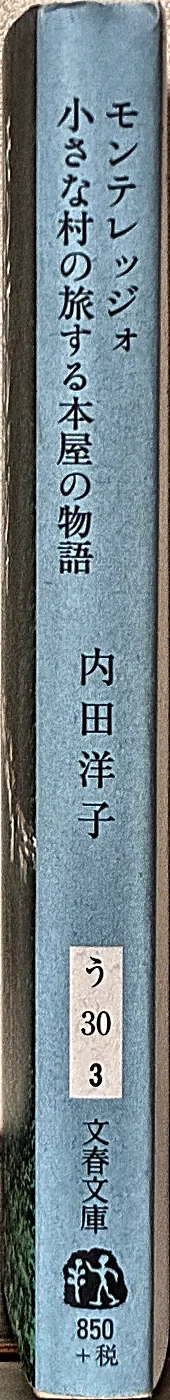
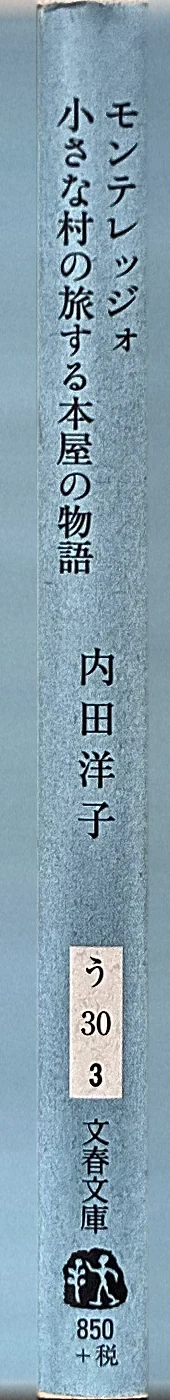
本の大きさを以前の大きさに戻す（1段およそ20冊）／モンテレッジオの背の黒い帯を消す
依頼主のご指示。見比べていただくため、この版を本番の確認先に出す
（12冊の版は、確認用のブランチにそのまま残す）。

・本の大きさを 1.0px/mm に戻す。390px 幅のスマートフォンで1段およそ20冊。
  実物どおりの比のまま。パソコン・タブレットも同じ厚み・高さ
・棚の仕切りなし、1つめの売り場は2段・2つめは1段、はそのまま
・広い画面でも段が埋まるよう、1段ぶんの冊数を増やす
・モンテレッジオの背表紙の画像の左端にあった黒い帯（撮影時の本の縁と
  背景）を、背の水色で埋める。右端の灰色の縁も同じく。
  写真は引き伸ばさず、背の水色が端まで続くようにする
・検査を合わせる（803件）

diff --git a/index.html b/index.html
@@ -148,6 +148,44 @@
         <li class="spine" style="--h:297;--kw:210;--t:11;--c:#A9CDDC;--e:#F1EBDE;--lean:0.0deg" data-book="suika" tabindex="0" role="button" aria-label="すいかのプール"><img src="assets/images/spine-suika-no-pool.webp" alt="" loading="lazy" decoding="async" draggable="false"></li>
         <li class="spine" style="--h:210;--kw:148;--t:16;--c:#6F2027;--e:#ECE3D2;--lean:0.0deg" data-book="aya" tabindex="0" role="button" aria-label="アーヤと魔女"><img src="assets/images/spine-aya-to-majo.webp" alt="" loading="lazy" decoding="async" draggable="false"></li>
         <li class="spine" style="--h:210;--kw:148;--t:25;--c:#F0EEE9;--e:#F4F1E9;--lean:0.0deg" data-book="kagaku" tabindex="0" role="button" aria-label="よみとく10分 かがくのお話25"><img src="assets/images/spine-kagaku-no-ohanashi-25.webp" alt="" loading="lazy" decoding="async" draggable="false"></li>
+        <li class="spine" style="--h:148;--kw:105;--t:19;--c:#A9CDDB;--e:#E7DCC4;--lean:0.0deg" data-book="monte" tabindex="0" role="button" aria-label="モンテレッジオ 小さな村の旅する本屋の物語"><img src="assets/images/spine-monteleggio.webp" alt="" loading="lazy" decoding="async" draggable="false"></li>
+        <li class="spine" style="--h:297;--kw:210;--t:11;--c:#A9CDDC;--e:#F1EBDE;--lean:0.0deg" data-book="suika" tabindex="0" role="button" aria-label="すいかのプール"><img src="assets/images/spine-suika-no-pool.webp" alt="" loading="lazy" decoding="async" draggable="false"></li>
+        <li class="spine" style="--h:210;--kw:148;--t:16;--c:#6F2027;--e:#ECE3D2;--lean:0.0deg" data-book="aya" tabindex="0" role="button" aria-label="アーヤと魔女"><img src="assets/images/spine-aya-to-majo.webp" alt="" loading="lazy" decoding="async" draggable="false"></li>
+        <li class="spine" style="--h:210;--kw:148;--t:25;--c:#F0EEE9;--e:#F4F1E9;--lean:0.0deg" data-book="kagaku" tabindex="0" role="button" aria-label="よみとく10分 かがくのお話25"><img src="assets/images/spine-kagaku-no-ohanashi-25.webp" alt="" loading="lazy" decoding="async" draggable="false"></li>
+        <li class="spine" style="--h:148;--kw:105;--t:19;--c:#A9CDDB;--e:#E7DCC4;--lean:0.0deg" data-book="monte" tabindex="0" role="button" aria-label="モンテレッジオ 小さな村の旅する本屋の物語"><img src="assets/images/spine-monteleggio.webp" alt="" loading="lazy" decoding="async" draggable="false"></li>
+        <li class="spine" style="--h:297;--kw:210;--t:11;--c:#A9CDDC;--e:#F1EBDE;--lean:0.0deg" data-book="suika" tabindex="0" role="button" aria-label="すいかのプール"><img src="assets/images/spine-suika-no-pool.webp" alt="" loading="lazy" decoding="async" draggable="false"></li>
+        <li class="spine" style="--h:210;--kw:148;--t:16;--c:#6F2027;--e:#ECE3D2;--lean:0.0deg" data-book="aya" tabindex="0" role="button" aria-label="アーヤと魔女"><img src="assets/images/spine-aya-to-majo.webp" alt="" loading="lazy" decoding="async" draggable="false"></li>
+        <li class="spine" style="--h:210;--kw:148;--t:25;--c:#F0EEE9;--e:#F4F1E9;--lean:0.0deg" data-book="kagaku" tabindex="0" role="button" aria-label="よみとく10分 かがくのお話25"><img src="assets/images/spine-kagaku-no-ohanashi-25.webp" alt="" loading="lazy" decoding="async" draggable="false"></li>
+        <li class="spine" style="--h:148;--kw:105;--t:19;--c:#A9CDDB;--e:#E7DCC4;--lean:0.0deg" data-book="monte" tabindex="0" role="button" aria-label="モンテレッジオ 小さな村の旅する本屋の物語"><img src="assets/images/spine-monteleggio.webp" alt="" loading="lazy" decoding="async" draggable="false"></li>
+        <li class="spine" style="--h:297;--kw:210;--t:11;--c:#A9CDDC;--e:#F1EBDE;--lean:0.0deg" data-book="suika" tabindex="0" role="button" aria-label="すいかのプール"><img src="assets/images/spine-suika-no-pool.webp" alt="" loading="lazy" decoding="async" draggable="false"></li>
+        <li class="spine" style="--h:210;--kw:148;--t:16;--c:#6F2027;--e:#ECE3D2;--lean:0.0deg" data-book="aya" tabindex="0" role="button" aria-label="アーヤと魔女"><img src="assets/images/spine-aya-to-majo.webp" alt="" loading="lazy" decoding="async" draggable="false"></li>
+        <li class="spine" style="--h:210;--kw:148;--t:25;--c:#F0EEE9;--e:#F4F1E9;--lean:0.0deg" data-book="kagaku" tabindex="0" role="button" aria-label="よみとく10分 かがくのお話25"><img src="assets/images/spine-kagaku-no-ohanashi-25.webp" alt="" loading="lazy" decoding="async" draggable="false"></li>
+        <li class="spine" style="--h:148;--kw:105;--t:19;--c:#A9CDDB;--e:#E7DCC4;--lean:0.0deg" data-book="monte" tabindex="0" role="button" aria-label="モンテレッジオ 小さな村の旅する本屋の物語"><img src="assets/images/spine-monteleggio.webp" alt="" loading="lazy" decoding="async" draggable="false"></li>
+        <li class="spine" style="--h:297;--kw:210;--t:11;--c:#A9CDDC;--e:#F1EBDE;--lean:0.0deg" data-book="suika" tabindex="0" role="button" aria-label="すいかのプール"><img src="assets/images/spine-suika-no-pool.webp" alt="" loading="lazy" decoding="async" draggable="false"></li>
+        <li class="spine" style="--h:210;--kw:148;--t:16;--c:#6F2027;--e:#ECE3D2;--lean:0.0deg" data-book="aya" tabindex="0" role="button" aria-label="アーヤと魔女"><img src="assets/images/spine-aya-to-majo.webp" alt="" loading="lazy" decoding="async" draggable="false"></li>
+        <li class="spine" style="--h:210;--kw:148;--t:25;--c:#F0EEE9;--e:#F4F1E9;--lean:0.0deg" data-book="kagaku" tabindex="0" role="button" aria-label="よみとく10分 かがくのお話25"><img src="assets/images/spine-kagaku-no-ohanashi-25.webp" alt="" loading="lazy" decoding="async" draggable="false"></li>
+        <li class="spine" style="--h:148;--kw:105;--t:19;--c:#A9CDDB;--e:#E7DCC4;--lean:0.0deg" data-book="monte" tabindex="0" role="button" aria-label="モンテレッジオ 小さな村の旅する本屋の物語"><img src="assets/images/spine-monteleggio.webp" alt="" loading="lazy" decoding="async" draggable="false"></li>
+        <li class="spine" style="--h:297;--kw:210;--t:11;--c:#A9CDDC;--e:#F1EBDE;--lean:0.0deg" data-book="suika" tabindex="0" role="button" aria-label="すいかのプール"><img src="assets/images/spine-suika-no-pool.webp" alt="" loading="lazy" decoding="async" draggable="false"></li>
+        <li class="spine" style="--h:210;--kw:148;--t:16;--c:#6F2027;--e:#ECE3D2;--lean:0.0deg" data-book="aya" tabindex="0" role="button" aria-label="アーヤと魔女"><img src="assets/images/spine-aya-to-majo.webp" alt="" loading="lazy" decoding="async" draggable="false"></li>
+        <li class="spine" style="--h:210;--kw:148;--t:25;--c:#F0EEE9;--e:#F4F1E9;--lean:0.0deg" data-book="kagaku" tabindex="0" role="button" aria-label="よみとく10分 かがくのお話25"><img src="assets/images/spine-kagaku-no-ohanashi-25.webp" alt="" loading="lazy" decoding="async" draggable="false"></li>
+        <li class="spine" style="--h:148;--kw:105;--t:19;--c:#A9CDDB;--e:#E7DCC4;--lean:0.0deg" data-book="monte" tabindex="0" role="button" aria-label="モンテレッジオ 小さな村の旅する本屋の物語"><img src="assets/images/spine-monteleggio.webp" alt="" loading="lazy" decoding="async" draggable="false"></li>
+        <li class="spine" style="--h:297;--kw:210;--t:11;--c:#A9CDDC;--e:#F1EBDE;--lean:0.0deg" data-book="suika" tabindex="0" role="button" aria-label="すいかのプール"><img src="assets/images/spine-suika-no-pool.webp" alt="" loading="lazy" decoding="async" draggable="false"></li>
+        <li class="spine" style="--h:210;--kw:148;--t:16;--c:#6F2027;--e:#ECE3D2;--lean:0.0deg" data-book="aya" tabindex="0" role="button" aria-label="アーヤと魔女"><img src="assets/images/spine-aya-to-majo.webp" alt="" loading="lazy" decoding="async" draggable="false"></li>
+        <li class="spine" style="--h:210;--kw:148;--t:25;--c:#F0EEE9;--e:#F4F1E9;--lean:0.0deg" data-book="kagaku" tabindex="0" role="button" aria-label="よみとく10分 かがくのお話25"><img src="assets/images/spine-kagaku-no-ohanashi-25.webp" alt="" loading="lazy" decoding="async" draggable="false"></li>
+        <li class="spine" style="--h:148;--kw:105;--t:19;--c:#A9CDDB;--e:#E7DCC4;--lean:0.0deg" data-book="monte" tabindex="0" role="button" aria-label="モンテレッジオ 小さな村の旅する本屋の物語"><img src="assets/images/spine-monteleggio.webp" alt="" loading="lazy" decoding="async" draggable="false"></li>
+        <li class="spine" style="--h:297;--kw:210;--t:11;--c:#A9CDDC;--e:#F1EBDE;--lean:0.0deg" data-book="suika" tabindex="0" role="button" aria-label="すいかのプール"><img src="assets/images/spine-suika-no-pool.webp" alt="" loading="lazy" decoding="async" draggable="false"></li>
+        <li class="spine" style="--h:210;--kw:148;--t:16;--c:#6F2027;--e:#ECE3D2;--lean:0.0deg" data-book="aya" tabindex="0" role="button" aria-label="アーヤと魔女"><img src="assets/images/spine-aya-to-majo.webp" alt="" loading="lazy" decoding="async" draggable="false"></li>
+        <li class="spine" style="--h:210;--kw:148;--t:25;--c:#F0EEE9;--e:#F4F1E9;--lean:0.0deg" data-book="kagaku" tabindex="0" role="button" aria-label="よみとく10分 かがくのお話25"><img src="assets/images/spine-kagaku-no-ohanashi-25.webp" alt="" loading="lazy" decoding="async" draggable="false"></li>
+        <li class="spine" style="--h:148;--kw:105;--t:19;--c:#A9CDDB;--e:#E7DCC4;--lean:0.0deg" data-book="monte" tabindex="0" role="button" aria-label="モンテレッジオ 小さな村の旅する本屋の物語"><img src="assets/images/spine-monteleggio.webp" alt="" loading="lazy" decoding="async" draggable="false"></li>
+        <li class="spine" style="--h:297;--kw:210;--t:11;--c:#A9CDDC;--e:#F1EBDE;--lean:0.0deg" data-book="suika" tabindex="0" role="button" aria-label="すいかのプール"><img src="assets/images/spine-suika-no-pool.webp" alt="" loading="lazy" decoding="async" draggable="false"></li>
+        <li class="spine" style="--h:210;--kw:148;--t:16;--c:#6F2027;--e:#ECE3D2;--lean:0.0deg" data-book="aya" tabindex="0" role="button" aria-label="アーヤと魔女"><img src="assets/images/spine-aya-to-majo.webp" alt="" loading="lazy" decoding="async" draggable="false"></li>
+        <li class="spine" style="--h:210;--kw:148;--t:25;--c:#F0EEE9;--e:#F4F1E9;--lean:0.0deg" data-book="kagaku" tabindex="0" role="button" aria-label="よみとく10分 かがくのお話25"><img src="assets/images/spine-kagaku-no-ohanashi-25.webp" alt="" loading="lazy" decoding="async" draggable="false"></li>
+        <li class="spine" style="--h:148;--kw:105;--t:19;--c:#A9CDDB;--e:#E7DCC4;--lean:0.0deg" data-book="monte" tabindex="0" role="button" aria-label="モンテレッジオ 小さな村の旅する本屋の物語"><img src="assets/images/spine-monteleggio.webp" alt="" loading="lazy" decoding="async" draggable="false"></li>
+        <li class="spine" style="--h:297;--kw:210;--t:11;--c:#A9CDDC;--e:#F1EBDE;--lean:0.0deg" data-book="suika" tabindex="0" role="button" aria-label="すいかのプール"><img src="assets/images/spine-suika-no-pool.webp" alt="" loading="lazy" decoding="async" draggable="false"></li>
+        <li class="spine" style="--h:210;--kw:148;--t:16;--c:#6F2027;--e:#ECE3D2;--lean:0.0deg" data-book="aya" tabindex="0" role="button" aria-label="アーヤと魔女"><img src="assets/images/spine-aya-to-majo.webp" alt="" loading="lazy" decoding="async" draggable="false"></li>
+        <li class="spine" style="--h:210;--kw:148;--t:25;--c:#F0EEE9;--e:#F4F1E9;--lean:0.0deg" data-book="kagaku" tabindex="0" role="button" aria-label="よみとく10分 かがくのお話25"><img src="assets/images/spine-kagaku-no-ohanashi-25.webp" alt="" loading="lazy" decoding="async" draggable="false"></li>
+        <li class="spine" style="--h:148;--kw:105;--t:19;--c:#A9CDDB;--e:#E7DCC4;--lean:0.0deg" data-book="monte" tabindex="0" role="button" aria-label="モンテレッジオ 小さな村の旅する本屋の物語"><img src="assets/images/spine-monteleggio.webp" alt="" loading="lazy" decoding="async" draggable="false"></li>
+        <li class="spine" style="--h:297;--kw:210;--t:11;--c:#A9CDDC;--e:#F1EBDE;--lean:0.0deg" data-book="suika" tabindex="0" role="button" aria-label="すいかのプール"><img src="assets/images/spine-suika-no-pool.webp" alt="" loading="lazy" decoding="async" draggable="false"></li>
           </ul>
         </div>
         <div class="case__board"></div>
@@ -225,6 +263,44 @@
         <li class="spine" style="--h:297;--kw:210;--t:11;--c:#A9CDDC;--e:#F1EBDE;--lean:0.0deg" data-book="suika" tabindex="0" role="button" aria-label="すいかのプール"><img src="assets/images/spine-suika-no-pool.webp" alt="" loading="lazy" decoding="async" draggable="false"></li>
         <li class="spine" style="--h:210;--kw:148;--t:16;--c:#6F2027;--e:#ECE3D2;--lean:0.0deg" data-book="aya" tabindex="0" role="button" aria-label="アーヤと魔女"><img src="assets/images/spine-aya-to-majo.webp" alt="" loading="lazy" decoding="async" draggable="false"></li>
         <li class="spine" style="--h:210;--kw:148;--t:25;--c:#F0EEE9;--e:#F4F1E9;--lean:0.0deg" data-book="kagaku" tabindex="0" role="button" aria-label="よみとく10分 かがくのお話25"><img src="assets/images/spine-kagaku-no-ohanashi-25.webp" alt="" loading="lazy" decoding="async" draggable="false"></li>
+        <li class="spine" style="--h:148;--kw:105;--t:19;--c:#A9CDDB;--e:#E7DCC4;--lean:0.0deg" data-book="monte" tabindex="0" role="button" aria-label="モンテレッジオ 小さな村の旅する本屋の物語"><img src="assets/images/spine-monteleggio.webp" alt="" loading="lazy" decoding="async" draggable="false"></li>
+        <li class="spine" style="--h:297;--kw:210;--t:11;--c:#A9CDDC;--e:#F1EBDE;--lean:0.0deg" data-book="suika" tabindex="0" role="button" aria-label="すいかのプール"><img src="assets/images/spine-suika-no-pool.webp" alt="" loading="lazy" decoding="async" draggable="false"></li>
+        <li class="spine" style="--h:210;--kw:148;--t:16;--c:#6F2027;--e:#ECE3D2;--lean:0.0deg" data-book="aya" tabindex="0" role="button" aria-label="アーヤと魔女"><img src="assets/images/spine-aya-to-majo.webp" alt="" loading="lazy" decoding="async" draggable="false"></li>
+        <li class="spine" style="--h:210;--kw:148;--t:25;--c:#F0EEE9;--e:#F4F1E9;--lean:0.0deg" data-book="kagaku" tabindex="0" role="button" aria-label="よみとく10分 かがくのお話25"><img src="assets/images/spine-kagaku-no-ohanashi-25.webp" alt="" loading="lazy" decoding="async" draggable="false"></li>
+        <li class="spine" style="--h:148;--kw:105;--t:19;--c:#A9CDDB;--e:#E7DCC4;--lean:0.0deg" data-book="monte" tabindex="0" role="button" aria-label="モンテレッジオ 小さな村の旅する本屋の物語"><img src="assets/images/spine-monteleggio.webp" alt="" loading="lazy" decoding="async" draggable="false"></li>
+        <li class="spine" style="--h:297;--kw:210;--t:11;--c:#A9CDDC;--e:#F1EBDE;--lean:0.0deg" data-book="suika" tabindex="0" role="button" aria-label="すいかのプール"><img src="assets/images/spine-suika-no-pool.webp" alt="" loading="lazy" decoding="async" draggable="false"></li>
+        <li class="spine" style="--h:210;--kw:148;--t:16;--c:#6F2027;--e:#ECE3D2;--lean:0.0deg" data-book="aya" tabindex="0" role="button" aria-label="アーヤと魔女"><img src="assets/images/spine-aya-to-majo.webp" alt="" loading="lazy" decoding="async" draggable="false"></li>
+        <li class="spine" style="--h:210;--kw:148;--t:25;--c:#F0EEE9;--e:#F4F1E9;--lean:0.0deg" data-book="kagaku" tabindex="0" role="button" aria-label="よみとく10分 かがくのお話25"><img src="assets/images/spine-kagaku-no-ohanashi-25.webp" alt="" loading="lazy" decoding="async" draggable="false"></li>
+        <li class="spine" style="--h:148;--kw:105;--t:19;--c:#A9CDDB;--e:#E7DCC4;--lean:0.0deg" data-book="monte" tabindex="0" role="button" aria-label="モンテレッジオ 小さな村の旅する本屋の物語"><img src="assets/images/spine-monteleggio.webp" alt="" loading="lazy" decoding="async" draggable="false"></li>
+        <li class="spine" style="--h:297;--kw:210;--t:11;--c:#A9CDDC;--e:#F1EBDE;--lean:0.0deg" data-book="suika" tabindex="0" role="button" aria-label="すいかのプール"><img src="assets/images/spine-suika-no-pool.webp" alt="" loading="lazy" decoding="async" draggable="false"></li>
+        <li class="spine" style="--h:210;--kw:148;--t:16;--c:#6F2027;--e:#ECE3D2;--lean:0.0deg" data-book="aya" tabindex="0" role="button" aria-label="アーヤと魔女"><img src="assets/images/spine-aya-to-majo.webp" alt="" loading="lazy" decoding="async" draggable="false"></li>
+        <li class="spine" style="--h:210;--kw:148;--t:25;--c:#F0EEE9;--e:#F4F1E9;--lean:0.0deg" data-book="kagaku" tabindex="0" role="button" aria-label="よみとく10分 かがくのお話25"><img src="assets/images/spine-kagaku-no-ohanashi-25.webp" alt="" loading="lazy" decoding="async" draggable="false"></li>
+        <li class="spine" style="--h:148;--kw:105;--t:19;--c:#A9CDDB;--e:#E7DCC4;--lean:0.0deg" data-book="monte" tabindex="0" role="button" aria-label="モンテレッジオ 小さな村の旅する本屋の物語"><img src="assets/images/spine-monteleggio.webp" alt="" loading="lazy" decoding="async" draggable="false"></li>
+        <li class="spine" style="--h:297;--kw:210;--t:11;--c:#A9CDDC;--e:#F1EBDE;--lean:0.0deg" data-book="suika" tabindex="0" role="button" aria-label="すいかのプール"><img src="assets/images/spine-suika-no-pool.webp" alt="" loading="lazy" decoding="async" draggable="false"></li>
+        <li class="spine" style="--h:210;--kw:148;--t:16;--c:#6F2027;--e:#ECE3D2;--lean:0.0deg" data-book="aya" tabindex="0" role="button" aria-label="アーヤと魔女"><img src="assets/images/spine-aya-to-majo.webp" alt="" loading="lazy" decoding="async" draggable="false"></li>
+        <li class="spine" style="--h:210;--kw:148;--t:25;--c:#F0EEE9;--e:#F4F1E9;--lean:0.0deg" data-book="kagaku" tabindex="0" role="button" aria-label="よみとく10分 かがくのお話25"><img src="assets/images/spine-kagaku-no-ohanashi-25.webp" alt="" loading="lazy" decoding="async" draggable="false"></li>
+        <li class="spine" style="--h:148;--kw:105;--t:19;--c:#A9CDDB;--e:#E7DCC4;--lean:0.0deg" data-book="monte" tabindex="0" role="button" aria-label="モンテレッジオ 小さな村の旅する本屋の物語"><img src="assets/images/spine-monteleggio.webp" alt="" loading="lazy" decoding="async" draggable="false"></li>
+        <li class="spine" style="--h:297;--kw:210;--t:11;--c:#A9CDDC;--e:#F1EBDE;--lean:0.0deg" data-book="suika" tabindex="0" role="button" aria-label="すいかのプール"><img src="assets/images/spine-suika-no-pool.webp" alt="" loading="lazy" decoding="async" draggable="false"></li>
+        <li class="spine" style="--h:210;--kw:148;--t:16;--c:#6F2027;--e:#ECE3D2;--lean:0.0deg" data-book="aya" tabindex="0" role="button" aria-label="アーヤと魔女"><img src="assets/images/spine-aya-to-majo.webp" alt="" loading="lazy" decoding="async" draggable="false"></li>
+        <li class="spine" style="--h:210;--kw:148;--t:25;--c:#F0EEE9;--e:#F4F1E9;--lean:0.0deg" data-book="kagaku" tabindex="0" role="button" aria-label="よみとく10分 かがくのお話25"><img src="assets/images/spine-kagaku-no-ohanashi-25.webp" alt="" loading="lazy" decoding="async" draggable="false"></li>
+        <li class="spine" style="--h:148;--kw:105;--t:19;--c:#A9CDDB;--e:#E7DCC4;--lean:0.0deg" data-book="monte" tabindex="0" role="button" aria-label="モンテレッジオ 小さな村の旅する本屋の物語"><img src="assets/images/spine-monteleggio.webp" alt="" loading="lazy" decoding="async" draggable="false"></li>
+        <li class="spine" style="--h:297;--kw:210;--t:11;--c:#A9CDDC;--e:#F1EBDE;--lean:0.0deg" data-book="suika" tabindex="0" role="button" aria-label="すいかのプール"><img src="assets/images/spine-suika-no-pool.webp" alt="" loading="lazy" decoding="async" draggable="false"></li>
+        <li class="spine" style="--h:210;--kw:148;--t:16;--c:#6F2027;--e:#ECE3D2;--lean:0.0deg" data-book="aya" tabindex="0" role="button" aria-label="アーヤと魔女"><img src="assets/images/spine-aya-to-majo.webp" alt="" loading="lazy" decoding="async" draggable="false"></li>
+        <li class="spine" style="--h:210;--kw:148;--t:25;--c:#F0EEE9;--e:#F4F1E9;--lean:0.0deg" data-book="kagaku" tabindex="0" role="button" aria-label="よみとく10分 かがくのお話25"><img src="assets/images/spine-kagaku-no-ohanashi-25.webp" alt="" loading="lazy" decoding="async" draggable="false"></li>
+        <li class="spine" style="--h:148;--kw:105;--t:19;--c:#A9CDDB;--e:#E7DCC4;--lean:0.0deg" data-book="monte" tabindex="0" role="button" aria-label="モンテレッジオ 小さな村の旅する本屋の物語"><img src="assets/images/spine-monteleggio.webp" alt="" loading="lazy" decoding="async" draggable="false"></li>
+        <li class="spine" style="--h:297;--kw:210;--t:11;--c:#A9CDDC;--e:#F1EBDE;--lean:0.0deg" data-book="suika" tabindex="0" role="button" aria-label="すいかのプール"><img src="assets/images/spine-suika-no-pool.webp" alt="" loading="lazy" decoding="async" draggable="false"></li>
+        <li class="spine" style="--h:210;--kw:148;--t:16;--c:#6F2027;--e:#ECE3D2;--lean:0.0deg" data-book="aya" tabindex="0" role="button" aria-label="アーヤと魔女"><img src="assets/images/spine-aya-to-majo.webp" alt="" loading="lazy" decoding="async" draggable="false"></li>
+        <li class="spine" style="--h:210;--kw:148;--t:25;--c:#F0EEE9;--e:#F4F1E9;--lean:0.0deg" data-book="kagaku" tabindex="0" role="button" aria-label="よみとく10分 かがくのお話25"><img src="assets/images/spine-kagaku-no-ohanashi-25.webp" alt="" loading="lazy" decoding="async" draggable="false"></li>
+        <li class="spine" style="--h:148;--kw:105;--t:19;--c:#A9CDDB;--e:#E7DCC4;--lean:0.0deg" data-book="monte" tabindex="0" role="button" aria-label="モンテレッジオ 小さな村の旅する本屋の物語"><img src="assets/images/spine-monteleggio.webp" alt="" loading="lazy" decoding="async" draggable="false"></li>
+        <li class="spine" style="--h:297;--kw:210;--t:11;--c:#A9CDDC;--e:#F1EBDE;--lean:0.0deg" data-book="suika" tabindex="0" role="button" aria-label="すいかのプール"><img src="assets/images/spine-suika-no-pool.webp" alt="" loading="lazy" decoding="async" draggable="false"></li>
+        <li class="spine" style="--h:210;--kw:148;--t:16;--c:#6F2027;--e:#ECE3D2;--lean:0.0deg" data-book="aya" tabindex="0" role="button" aria-label="アーヤと魔女"><img src="assets/images/spine-aya-to-majo.webp" alt="" loading="lazy" decoding="async" draggable="false"></li>
+        <li class="spine" style="--h:210;--kw:148;--t:25;--c:#F0EEE9;--e:#F4F1E9;--lean:0.0deg" data-book="kagaku" tabindex="0" role="button" aria-label="よみとく10分 かがくのお話25"><img src="assets/images/spine-kagaku-no-ohanashi-25.webp" alt="" loading="lazy" decoding="async" draggable="false"></li>
+        <li class="spine" style="--h:148;--kw:105;--t:19;--c:#A9CDDB;--e:#E7DCC4;--lean:0.0deg" data-book="monte" tabindex="0" role="button" aria-label="モンテレッジオ 小さな村の旅する本屋の物語"><img src="assets/images/spine-monteleggio.webp" alt="" loading="lazy" decoding="async" draggable="false"></li>
+        <li class="spine" style="--h:297;--kw:210;--t:11;--c:#A9CDDC;--e:#F1EBDE;--lean:0.0deg" data-book="suika" tabindex="0" role="button" aria-label="すいかのプール"><img src="assets/images/spine-suika-no-pool.webp" alt="" loading="lazy" decoding="async" draggable="false"></li>
+        <li class="spine" style="--h:210;--kw:148;--t:16;--c:#6F2027;--e:#ECE3D2;--lean:0.0deg" data-book="aya" tabindex="0" role="button" aria-label="アーヤと魔女"><img src="assets/images/spine-aya-to-majo.webp" alt="" loading="lazy" decoding="async" draggable="false"></li>
+        <li class="spine" style="--h:210;--kw:148;--t:25;--c:#F0EEE9;--e:#F4F1E9;--lean:0.0deg" data-book="kagaku" tabindex="0" role="button" aria-label="よみとく10分 かがくのお話25"><img src="assets/images/spine-kagaku-no-ohanashi-25.webp" alt="" loading="lazy" decoding="async" draggable="false"></li>
+        <li class="spine" style="--h:148;--kw:105;--t:19;--c:#A9CDDB;--e:#E7DCC4;--lean:0.0deg" data-book="monte" tabindex="0" role="button" aria-label="モンテレッジオ 小さな村の旅する本屋の物語"><img src="assets/images/spine-monteleggio.webp" alt="" loading="lazy" decoding="async" draggable="false"></li>
+        <li class="spine" style="--h:297;--kw:210;--t:11;--c:#A9CDDC;--e:#F1EBDE;--lean:0.0deg" data-book="suika" tabindex="0" role="button" aria-label="すいかのプール"><img src="assets/images/spine-suika-no-pool.webp" alt="" loading="lazy" decoding="async" draggable="false"></li>
           </ul>
         </div>
         <div class="case__board"></div>
@@ -343,6 +419,44 @@
         <li class="spine" style="--h:297;--kw:210;--t:11;--c:#A9CDDC;--e:#F1EBDE;--lean:0.0deg" data-book="suika" tabindex="0" role="button" aria-label="すいかのプール"><img src="assets/images/spine-suika-no-pool.webp" alt="" loading="lazy" decoding="async" draggable="false"></li>
         <li class="spine" style="--h:210;--kw:148;--t:16;--c:#6F2027;--e:#ECE3D2;--lean:0.0deg" data-book="aya" tabindex="0" role="button" aria-label="アーヤと魔女"><img src="assets/images/spine-aya-to-majo.webp" alt="" loading="lazy" decoding="async" draggable="false"></li>
         <li class="spine" style="--h:210;--kw:148;--t:25;--c:#F0EEE9;--e:#F4F1E9;--lean:0.0deg" data-book="kagaku" tabindex="0" role="button" aria-label="よみとく10分 かがくのお話25"><img src="assets/images/spine-kagaku-no-ohanashi-25.webp" alt="" loading="lazy" decoding="async" draggable="false"></li>
+        <li class="spine" style="--h:148;--kw:105;--t:19;--c:#A9CDDB;--e:#E7DCC4;--lean:0.0deg" data-book="monte" tabindex="0" role="button" aria-label="モンテレッジオ 小さな村の旅する本屋の物語"><img src="assets/images/spine-monteleggio.webp" alt="" loading="lazy" decoding="async" draggable="false"></li>
+        <li class="spine" style="--h:297;--kw:210;--t:11;--c:#A9CDDC;--e:#F1EBDE;--lean:0.0deg" data-book="suika" tabindex="0" role="button" aria-label="すいかのプール"><img src="assets/images/spine-suika-no-pool.webp" alt="" loading="lazy" decoding="async" draggable="false"></li>
+        <li class="spine" style="--h:210;--kw:148;--t:16;--c:#6F2027;--e:#ECE3D2;--lean:0.0deg" data-book="aya" tabindex="0" role="button" aria-label="アーヤと魔女"><img src="assets/images/spine-aya-to-majo.webp" alt="" loading="lazy" decoding="async" draggable="false"></li>
+        <li class="spine" style="--h:210;--kw:148;--t:25;--c:#F0EEE9;--e:#F4F1E9;--lean:0.0deg" data-book="kagaku" tabindex="0" role="button" aria-label="よみとく10分 かがくのお話25"><img src="assets/images/spine-kagaku-no-ohanashi-25.webp" alt="" loading="lazy" decoding="async" draggable="false"></li>
+        <li class="spine" style="--h:148;--kw:105;--t:19;--c:#A9CDDB;--e:#E7DCC4;--lean:0.0deg" data-book="monte" tabindex="0" role="button" aria-label="モンテレッジオ 小さな村の旅する本屋の物語"><img src="assets/images/spine-monteleggio.webp" alt="" loading="lazy" decoding="async" draggable="false"></li>
+        <li class="spine" style="--h:297;--kw:210;--t:11;--c:#A9CDDC;--e:#F1EBDE;--lean:0.0deg" data-book="suika" tabindex="0" role="button" aria-label="すいかのプール"><img src="assets/images/spine-suika-no-pool.webp" alt="" loading="lazy" decoding="async" draggable="false"></li>
+        <li class="spine" style="--h:210;--kw:148;--t:16;--c:#6F2027;--e:#ECE3D2;--lean:0.0deg" data-book="aya" tabindex="0" role="button" aria-label="アーヤと魔女"><img src="assets/images/spine-aya-to-majo.webp" alt="" loading="lazy" decoding="async" draggable="false"></li>
+        <li class="spine" style="--h:210;--kw:148;--t:25;--c:#F0EEE9;--e:#F4F1E9;--lean:0.0deg" data-book="kagaku" tabindex="0" role="button" aria-label="よみとく10分 かがくのお話25"><img src="assets/images/spine-kagaku-no-ohanashi-25.webp" alt="" loading="lazy" decoding="async" draggable="false"></li>
+        <li class="spine" style="--h:148;--kw:105;--t:19;--c:#A9CDDB;--e:#E7DCC4;--lean:0.0deg" data-book="monte" tabindex="0" role="button" aria-label="モンテレッジオ 小さな村の旅する本屋の物語"><img src="assets/images/spine-monteleggio.webp" alt="" loading="lazy" decoding="async" draggable="false"></li>
+        <li class="spine" style="--h:297;--kw:210;--t:11;--c:#A9CDDC;--e:#F1EBDE;--lean:0.0deg" data-book="suika" tabindex="0" role="button" aria-label="すいかのプール"><img src="assets/images/spine-suika-no-pool.webp" alt="" loading="lazy" decoding="async" draggable="false"></li>
+        <li class="spine" style="--h:210;--kw:148;--t:16;--c:#6F2027;--e:#ECE3D2;--lean:0.0deg" data-book="aya" tabindex="0" role="button" aria-label="アーヤと魔女"><img src="assets/images/spine-aya-to-majo.webp" alt="" loading="lazy" decoding="async" draggable="false"></li>
+        <li class="spine" style="--h:210;--kw:148;--t:25;--c:#F0EEE9;--e:#F4F1E9;--lean:0.0deg" data-book="kagaku" tabindex="0" role="button" aria-label="よみとく10分 かがくのお話25"><img src="assets/images/spine-kagaku-no-ohanashi-25.webp" alt="" loading="lazy" decoding="async" draggable="false"></li>
+        <li class="spine" style="--h:148;--kw:105;--t:19;--c:#A9CDDB;--e:#E7DCC4;--lean:0.0deg" data-book="monte" tabindex="0" role="button" aria-label="モンテレッジオ 小さな村の旅する本屋の物語"><img src="assets/images/spine-monteleggio.webp" alt="" loading="lazy" decoding="async" draggable="false"></li>
+        <li class="spine" style="--h:297;--kw:210;--t:11;--c:#A9CDDC;--e:#F1EBDE;--lean:0.0deg" data-book="suika" tabindex="0" role="button" aria-label="すいかのプール"><img src="assets/images/spine-suika-no-pool.webp" alt="" loading="lazy" decoding="async" draggable="false"></li>
+        <li class="spine" style="--h:210;--kw:148;--t:16;--c:#6F2027;--e:#ECE3D2;--lean:0.0deg" data-book="aya" tabindex="0" role="button" aria-label="アーヤと魔女"><img src="assets/images/spine-aya-to-majo.webp" alt="" loading="lazy" decoding="async" draggable="false"></li>
+        <li class="spine" style="--h:210;--kw:148;--t:25;--c:#F0EEE9;--e:#F4F1E9;--lean:0.0deg" data-book="kagaku" tabindex="0" role="button" aria-label="よみとく10分 かがくのお話25"><img src="assets/images/spine-kagaku-no-ohanashi-25.webp" alt="" loading="lazy" decoding="async" draggable="false"></li>
+        <li class="spine" style="--h:148;--kw:105;--t:19;--c:#A9CDDB;--e:#E7DCC4;--lean:0.0deg" data-book="monte" tabindex="0" role="button" aria-label="モンテレッジオ 小さな村の旅する本屋の物語"><img src="assets/images/spine-monteleggio.webp" alt="" loading="lazy" decoding="async" draggable="false"></li>
+        <li class="spine" style="--h:297;--kw:210;--t:11;--c:#A9CDDC;--e:#F1EBDE;--lean:0.0deg" data-book="suika" tabindex="0" role="button" aria-label="すいかのプール"><img src="assets/images/spine-suika-no-pool.webp" alt="" loading="lazy" decoding="async" draggable="false"></li>
+        <li class="spine" style="--h:210;--kw:148;--t:16;--c:#6F2027;--e:#ECE3D2;--lean:0.0deg" data-book="aya" tabindex="0" role="button" aria-label="アーヤと魔女"><img src="assets/images/spine-aya-to-majo.webp" alt="" loading="lazy" decoding="async" draggable="false"></li>
+        <li class="spine" style="--h:210;--kw:148;--t:25;--c:#F0EEE9;--e:#F4F1E9;--lean:0.0deg" data-book="kagaku" tabindex="0" role="button" aria-label="よみとく10分 かがくのお話25"><img src="assets/images/spine-kagaku-no-ohanashi-25.webp" alt="" loading="lazy" decoding="async" draggable="false"></li>
+        <li class="spine" style="--h:148;--kw:105;--t:19;--c:#A9CDDB;--e:#E7DCC4;--lean:0.0deg" data-book="monte" tabindex="0" role="button" aria-label="モンテレッジオ 小さな村の旅する本屋の物語"><img src="assets/images/spine-monteleggio.webp" alt="" loading="lazy" decoding="async" draggable="false"></li>
+        <li class="spine" style="--h:297;--kw:210;--t:11;--c:#A9CDDC;--e:#F1EBDE;--lean:0.0deg" data-book="suika" tabindex="0" role="button" aria-label="すいかのプール"><img src="assets/images/spine-suika-no-pool.webp" alt="" loading="lazy" decoding="async" draggable="false"></li>
+        <li class="spine" style="--h:210;--kw:148;--t:16;--c:#6F2027;--e:#ECE3D2;--lean:0.0deg" data-book="aya" tabindex="0" role="button" aria-label="アーヤと魔女"><img src="assets/images/spine-aya-to-majo.webp" alt="" loading="lazy" decoding="async" draggable="false"></li>
+        <li class="spine" style="--h:210;--kw:148;--t:25;--c:#F0EEE9;--e:#F4F1E9;--lean:0.0deg" data-book="kagaku" tabindex="0" role="button" aria-label="よみとく10分 かがくのお話25"><img src="assets/images/spine-kagaku-no-ohanashi-25.webp" alt="" loading="lazy" decoding="async" draggable="false"></li>
+        <li class="spine" style="--h:148;--kw:105;--t:19;--c:#A9CDDB;--e:#E7DCC4;--lean:0.0deg" data-book="monte" tabindex="0" role="button" aria-label="モンテレッジオ 小さな村の旅する本屋の物語"><img src="assets/images/spine-monteleggio.webp" alt="" loading="lazy" decoding="async" draggable="false"></li>
+        <li class="spine" style="--h:297;--kw:210;--t:11;--c:#A9CDDC;--e:#F1EBDE;--lean:0.0deg" data-book="suika" tabindex="0" role="button" aria-label="すいかのプール"><img src="assets/images/spine-suika-no-pool.webp" alt="" loading="lazy" decoding="async" draggable="false"></li>
+        <li class="spine" style="--h:210;--kw:148;--t:16;--c:#6F2027;--e:#ECE3D2;--lean:0.0deg" data-book="aya" tabindex="0" role="button" aria-label="アーヤと魔女"><img src="assets/images/spine-aya-to-majo.webp" alt="" loading="lazy" decoding="async" draggable="false"></li>
+        <li class="spine" style="--h:210;--kw:148;--t:25;--c:#F0EEE9;--e:#F4F1E9;--lean:0.0deg" data-book="kagaku" tabindex="0" role="button" aria-label="よみとく10分 かがくのお話25"><img src="assets/images/spine-kagaku-no-ohanashi-25.webp" alt="" loading="lazy" decoding="async" draggable="false"></li>
+        <li class="spine" style="--h:148;--kw:105;--t:19;--c:#A9CDDB;--e:#E7DCC4;--lean:0.0deg" data-book="monte" tabindex="0" role="button" aria-label="モンテレッジオ 小さな村の旅する本屋の物語"><img src="assets/images/spine-monteleggio.webp" alt="" loading="lazy" decoding="async" draggable="false"></li>
+        <li class="spine" style="--h:297;--kw:210;--t:11;--c:#A9CDDC;--e:#F1EBDE;--lean:0.0deg" data-book="suika" tabindex="0" role="button" aria-label="すいかのプール"><img src="assets/images/spine-suika-no-pool.webp" alt="" loading="lazy" decoding="async" draggable="false"></li>
+        <li class="spine" style="--h:210;--kw:148;--t:16;--c:#6F2027;--e:#ECE3D2;--lean:0.0deg" data-book="aya" tabindex="0" role="button" aria-label="アーヤと魔女"><img src="assets/images/spine-aya-to-majo.webp" alt="" loading="lazy" decoding="async" draggable="false"></li>
+        <li class="spine" style="--h:210;--kw:148;--t:25;--c:#F0EEE9;--e:#F4F1E9;--lean:0.0deg" data-book="kagaku" tabindex="0" role="button" aria-label="よみとく10分 かがくのお話25"><img src="assets/images/spine-kagaku-no-ohanashi-25.webp" alt="" loading="lazy" decoding="async" draggable="false"></li>
+        <li class="spine" style="--h:148;--kw:105;--t:19;--c:#A9CDDB;--e:#E7DCC4;--lean:0.0deg" data-book="monte" tabindex="0" role="button" aria-label="モンテレッジオ 小さな村の旅する本屋の物語"><img src="assets/images/spine-monteleggio.webp" alt="" loading="lazy" decoding="async" draggable="false"></li>
+        <li class="spine" style="--h:297;--kw:210;--t:11;--c:#A9CDDC;--e:#F1EBDE;--lean:0.0deg" data-book="suika" tabindex="0" role="button" aria-label="すいかのプール"><img src="assets/images/spine-suika-no-pool.webp" alt="" loading="lazy" decoding="async" draggable="false"></li>
+        <li class="spine" style="--h:210;--kw:148;--t:16;--c:#6F2027;--e:#ECE3D2;--lean:0.0deg" data-book="aya" tabindex="0" role="button" aria-label="アーヤと魔女"><img src="assets/images/spine-aya-to-majo.webp" alt="" loading="lazy" decoding="async" draggable="false"></li>
+        <li class="spine" style="--h:210;--kw:148;--t:25;--c:#F0EEE9;--e:#F4F1E9;--lean:0.0deg" data-book="kagaku" tabindex="0" role="button" aria-label="よみとく10分 かがくのお話25"><img src="assets/images/spine-kagaku-no-ohanashi-25.webp" alt="" loading="lazy" decoding="async" draggable="false"></li>
+        <li class="spine" style="--h:148;--kw:105;--t:19;--c:#A9CDDB;--e:#E7DCC4;--lean:0.0deg" data-book="monte" tabindex="0" role="button" aria-label="モンテレッジオ 小さな村の旅する本屋の物語"><img src="assets/images/spine-monteleggio.webp" alt="" loading="lazy" decoding="async" draggable="false"></li>
+        <li class="spine" style="--h:297;--kw:210;--t:11;--c:#A9CDDC;--e:#F1EBDE;--lean:0.0deg" data-book="suika" tabindex="0" role="button" aria-label="すいかのプール"><img src="assets/images/spine-suika-no-pool.webp" alt="" loading="lazy" decoding="async" draggable="false"></li>
           </ul>
         </div>
         <div class="case__board"></div>

diff --git a/tests/verify.js b/tests/verify.js
@@ -182,9 +182,9 @@ async function shelf(b) {
       /* 段の数は以前の構成のとおり。1つめの売り場は2段、2つめは1段 */
       t(k.tiers === (i === 0 ? 2 : 1), `${n}: 段は${i === 0 ? 2 : 1}つ (${k.tiers})`);
       t(k.dividers === 0, `${n}: 棚は仕切らず、画面の幅いっぱいに1続き`);
-      /* スマートフォンの1段は12冊程度（國分様への回答「1段12冊程度」） */
-      if (phone && !land) t(k.perRow.every(x => x >= 12 && x <= 13),
-        `${n}: スマートフォンの1段は12冊程度 (${k.perRow.join('・')}冊)`);
+      /* 390px 幅のスマートフォンで1段およそ20冊 */
+      if (vp.w === 390) t(k.perRow.every(x => x >= 18 && x <= 22),
+        `${n}: 1段およそ20冊 (${k.perRow.join('・')}冊)`);
       t(k.inOrder, `${n}: 参考画像と同じ並び（4冊ひと組の繰り返し）`);
       t(k.upright, `${n}: 本はまっすぐ立っている`);
       t(k.bottomGap <= 1.5, `${n}: 本が棚板に立っている (ずれ ${k.bottomGap}px)`);
@@ -196,7 +196,7 @@ async function shelf(b) {
       t(k.skew <= 1.07, `${n}: 背表紙の写真が引き伸ばされていない (${k.skew}倍)`);
       /* いちばん薄いデモの本（11mm）でも 12px 以上。選ぶのは指でなぞって確かめる。
          横向きのスマートフォンは段を見える高さに合わせるので、ここは見ない */
-      if (!land) t(k.minW >= 14, `${n}: いちばん薄い本も指で選べる幅 (${k.minW.toFixed(1)}px)`);
+      if (!land) t(k.minW >= 10.5, `${n}: いちばん薄い本も見える幅 (${k.minW.toFixed(1)}px)`);
       /* 平台の冊数。要件定義書 2-3「3〜4冊」。天板の広いパソコンだけ8冊 */
       const want = vp.w >= 1500 ? 8 : vp.w >= 1100 ? 6 : vp.w >= 360 ? 4 : 3;
       t(k.flatN === want, `${n}: 平台に${want}冊 (${k.flatN}冊)`);
@@ -206,10 +206,8 @@ async function shelf(b) {
       t(k.flatFaces === 2, `${n}: 平置きに背と小口の面がある`);
       t(k.flatMinW >= 44, `${n}: 平台のいちばん小さい本も表紙が見え、指で押せる (${k.flatMinW}px)`);
       t(!k.dapple, `${n}: 光の斑（白いモヤ）が無い`);
-      /* 本の大きさ。押しやすさを優先し、スマートフォンの1段が12冊程度になる大きさ。
-         パソコン・タブレットも同じ大きさ（厚みも高さもスマートフォンと同じ）。
-         本棚が縦に長くなるのは承知のうえ（依頼主のご指示） */
-      if (vp.w >= 390) t(Math.abs(m.mm - 1.66) < 0.01, `${n}: 本の大きさはスマートフォンと同じ 1.66px/mm (${m.mm.toFixed(3)})`);
+      /* 本の大きさは、どの画面も同じ 1.0px/mm（スマートフォンもパソコンも同じ厚み・高さ） */
+      t(Math.abs(m.mm - 1) < 0.01, `${n}: 本の大きさはどの画面も 1.0px/mm (${m.mm.toFixed(3)})`);
     });
     await p.close();
   }

diff --git a/styles/base.css b/styles/base.css
@@ -30,13 +30,9 @@
      高さにも厚みにも同じ一本の倍率をかけるので、背表紙は実物どおりの
      比になる（必須条件⑤・要件定義書 2-2）。
 
-     --mm は「スマートフォンの1段に、本がおよそ12冊並ぶ」大きさにする。
-     國分様への回答「タップしやすい大きさにするには、1段12冊程度」のとおり。
-     お預かりの4冊ひと組は背幅の合計 71mm（19＋11＋16＋25）。12冊で 213mm。
-     390px 幅のスマートフォンで段の内側は 360px なので、1.66px/mm で12冊（端に少し余裕を残す）。
-     それより狭い画面では、12冊が入るところまで小さくする。
-     パソコン・タブレットも同じ大きさ（厚みも高さもスマートフォンと同じ）。
-     本を大きくしたぶん本棚は縦に長くなる。見やすさ・押しやすさを優先する。 */
+     --mm は 1px。背表紙の太さが参考画像とほぼ同じになる大きさ。
+     390px 幅のスマートフォンで、1段におよそ20冊並ぶ。
+     パソコン・タブレットも同じ大きさ（厚みも高さもスマートフォンと同じ）。 */
   --vh-full:   100vh;
   --bar-h:     calc(2 * clamp(14px,3.4vh,26px) + 32px);  /* 上の帯。売り場の上にかぶる */
   --head-h:    clamp(48px, 6vh, 72px);     /* 看板（テーマ名とすべて見る） */
@@ -46,7 +42,7 @@
   --lip:       clamp(12px, 1.8vh, 20px);   /* 平台の手前の縁 */
   --base-h:    clamp(40px, 6.4vh, 80px);   /* 台輪。脚で支えた抜けた空間 */
   --floor-h:   clamp(18px, 2.6vh, 32px);   /* 床 */
-  --mm:        min(1.66px, calc((100vw - 2 * var(--post-w)) / 216));
+  --mm:        1px;
   /* 段の高さ。300mm の本の上に、手を差し入れるだけの空きを取る（322mm ぶん） */
   --tier-h:    calc(var(--mm) * 322);
 

diff --git a/tools/gen_data.py b/tools/gen_data.py
@@ -151,7 +151,7 @@ def sumw(books):
 
 # 本棚の段。1段は画面の幅いっぱいに1続き。
 # いちばん広い画面でも足りる冊数を出しておき、入りきらないぶんは隠す（scripts/main.js）。
-PER_TIER = 72
+PER_TIER = 110
 
 
 def shelf(tiers):
